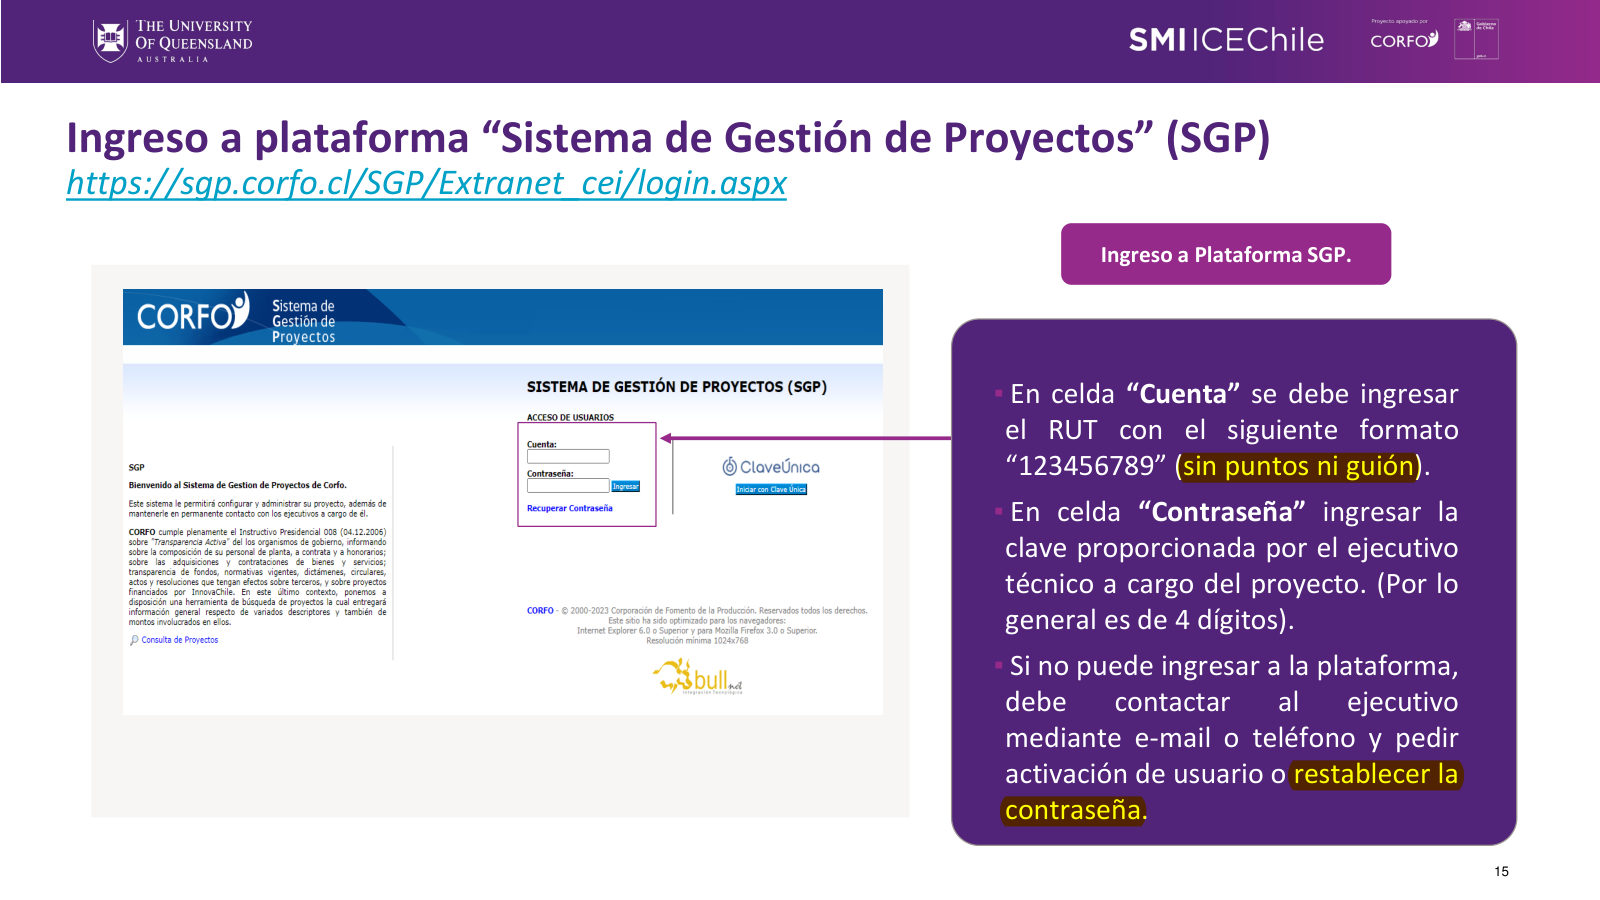
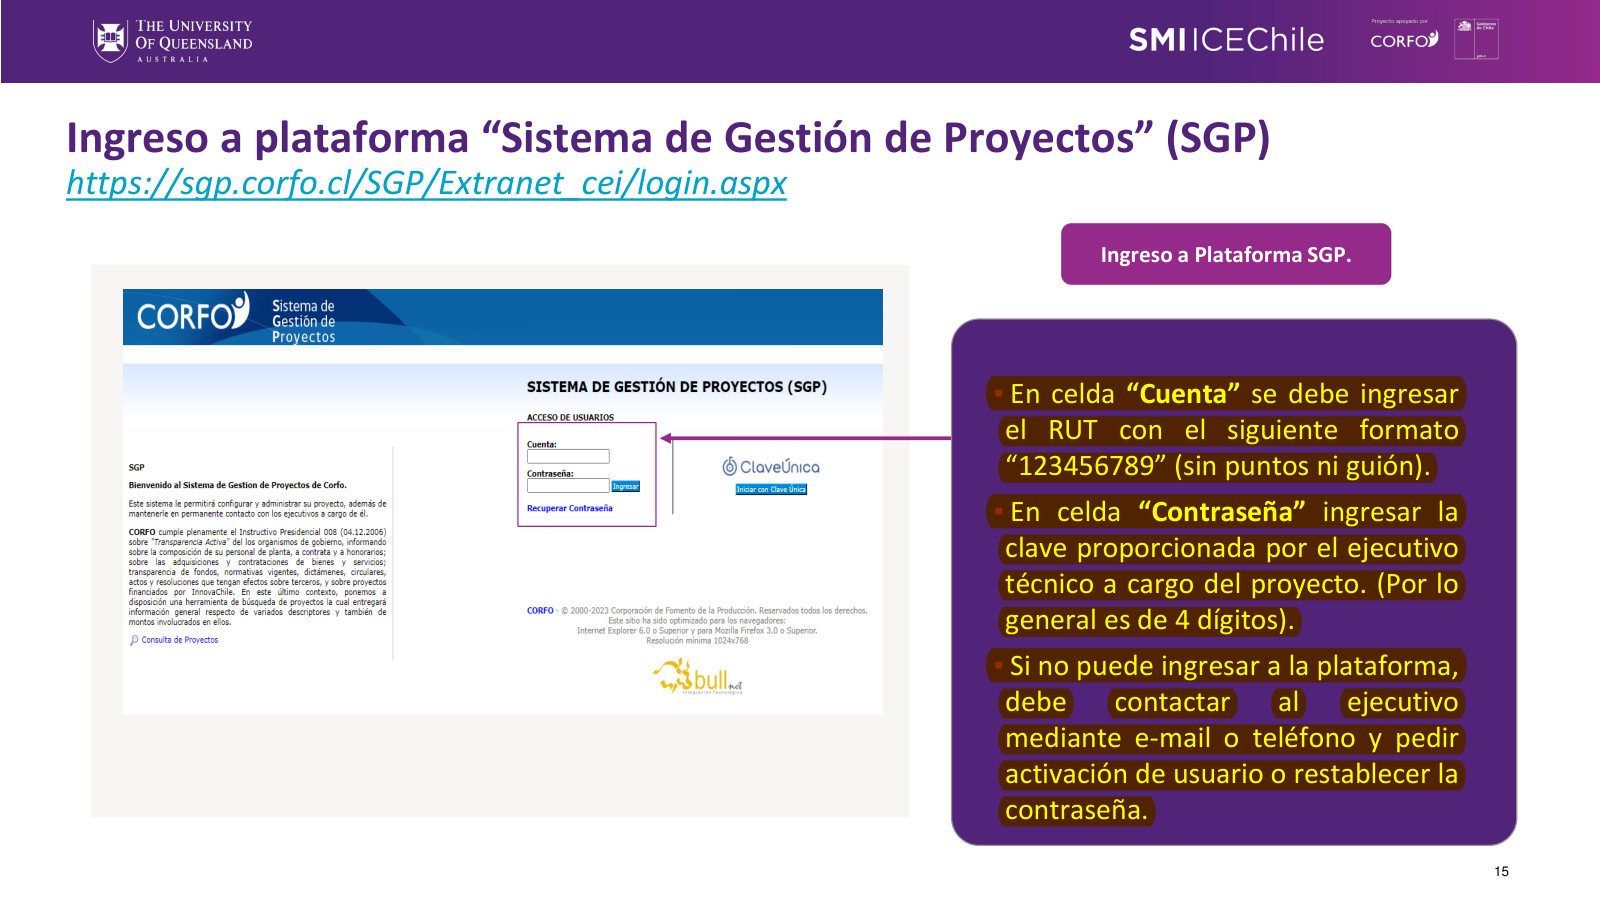
Extractos en amarillo rehechos: oraciones completas y recortes por párrafo (rf-v3-31)

Changed region(s): [[0.5938, 0.4044, 0.9375, 0.9022]]

diff --git a/sw.js b/sw.js
@@ -1,5 +1,5 @@
 /* Rinde Fácil: guarda los archivos de la app para que abra sin conexión. Los datos del usuario NO pasan por aquí. */
-var VERSION = 'rf-v3-30';
+var VERSION = 'rf-v3-31';
 var CORE = ['./', 'index.html', 'css/app.css', 'manifest.webmanifest', 'assets/icon.svg', 'vendor/parser.js', 'js/00-service-trust.js', 'js/01-util.js', 'js/02-store.js', 'js/03-crypto.js', 'js/04-vault.js', 'js/05-auth.js', 'js/10-data.js', 'js/11-tramites.js', 'js/12-needs.js', 'js/13-holidays.js', 'js/20-logic.js', 'js/26-receipt.js', 'js/27-search.js','js/21-export.js', 'js/22-export-pro.js', 'js/30-ui.js', 'js/31-forms.js', 'js/32-tools-plan.js', 'js/33-cloud.js', 'js/34-tools-gastos.js', 'js/36-drive.js', 'js/38-tools-needs.js', 'js/37-repo.js', 'js/35-flow.js', 'js/39-auth-ui.js', 'js/41-tools-share.js', 'js/42-tools-calendar.js', 'js/43-tools-f29.js', 'js/44-tools-historial.js', 'js/45-tools-obras.js', 'js/46-dashboard.js', 'js/47-expediente.js', 'js/40-views.js', 'js/50-search.js','js/60-app.js'];
 self.addEventListener('install', function (e) { e.waitUntil(caches.open(VERSION).then(function (c) { return c.addAll(CORE); }).then(function () { return self.skipWaiting(); })); });
 self.addEventListener('activate', function (e) { e.waitUntil(caches.keys().then(function (ks) { return Promise.all(ks.filter(function (k) { return k !== VERSION; }).map(function (k) { return caches.delete(k); })); }).then(function () { return self.clients.claim(); })); });

diff --git a/js/11-tramites.js b/js/11-tramites.js
@@ -124,7 +124,7 @@
       tools: ['consulta'], img: [['doc-004-79b28f1aad_p022.jpg', 'Manual, p. 22: interpretación']], src: ['Manual CORFO, sección XI (p. 22)'] }
   ];
 
-  /* hojas originales que tienen un recorte con el extracto marcado en amarillo (assets/docs/hl/, hecho con tools/make_highlights.py) */
+  /* hojas originales que tienen un recorte con el extracto marcado en amarillo (assets/docs/hl/, hecho con tools/hl_apply.py y tools/hl_spec.json) */
   var HL = ["doc-004-79b28f1aad_p007.jpg","doc-004-79b28f1aad_p008.jpg","doc-004-79b28f1aad_p009.jpg","doc-004-79b28f1aad_p010.jpg","doc-004-79b28f1aad_p015.jpg","doc-004-79b28f1aad_p019.jpg","doc-004-79b28f1aad_p020.jpg","doc-004-79b28f1aad_p021.jpg","doc-004-79b28f1aad_p022.jpg","doc-005-7690461ef7_p004.jpg","doc-005-7690461ef7_p005.jpg","doc-005-7690461ef7_p015.jpg","doc-005-7690461ef7_p016.jpg","doc-005-7690461ef7_p018.jpg","doc-005-7690461ef7_p020.jpg","doc-005-7690461ef7_p024.jpg"];
   var BY_ID = {}; T.forEach(function (t) { BY_ID[t.id] = t; });
 

diff --git a/tools/hl_apply.py b/tools/hl_apply.py
@@ -1,0 +1,157 @@
+"""Marca en amarillo, palabra por palabra, las ORACIONES completas que respaldan un trámite y recorta la hoja por párrafos enteros.
+
+Uso:
+  python tools/hl_apply.py --dump <prefijo> <página>        imprime la hoja por párrafos (para copiar las frases tal como están)
+  python tools/hl_apply.py --apply spec.json [--src carpeta] [--out carpeta]
+
+spec.json: [{"pdf": "doc-004-79b28f1aad", "page": 8, "sentences": ["oración completa 1", "oración completa 2"]}, ...]
+Cada oración se copia TAL CUAL del volcado (puede cruzar renglones). La herramienta avisa si una oración no se encuentra,
+si solo calzó en parte, o si el marcado ocupa demasiado de la hoja (señal de que se marcó de más)."""
+import json
+import os
+import re
+import sys
+
+try:
+    import pymupdf as fitz
+except ImportError:
+    import fitz
+
+HERE = os.path.dirname(os.path.dirname(os.path.abspath(__file__)))
+DEFAULT_SRC = r"D:\SMI\Fuentes\Desempeño social y gobernanza de recursos\Documentos iniciales"
+PDF = {
+    "doc-004-79b28f1aad": "Manual rendición de proyectos_Corfo.pdf",
+    "doc-005-7690461ef7": "Presentación Rendición financiera y técnica - Versión final.pdf",
+}
+
+
+def norm(t):
+    t = t.lower().replace("’", "'").replace("“", '"').replace("”", '"')
+    return re.sub(r"[^\w$%°]+", "", t)
+
+
+def page_words(page):
+    ws = page.get_text("words")  # x0, y0, x1, y1, text, block, line, word
+    ws.sort(key=lambda w: (w[5], w[6], w[7]))
+    return [{"r": fitz.Rect(w[:4]), "t": w[4], "n": norm(w[4]), "b": w[5], "l": w[6]} for w in ws if norm(w[4])]
+
+
+def find_span(words, sentence):
+    toks = [norm(x) for x in sentence.split() if norm(x)]
+    if not toks:
+        return None, "vacía"
+    ns = [w["n"] for w in words]
+    n = len(toks)
+    for i in range(0, len(ns) - n + 1):
+        if ns[i:i + n] == toks:
+            return (i, i + n), "exacta"
+    # parcial: el inicio y el final de la oración (4 palabras cada uno) dentro de una ventana razonable
+    k = min(4, n)
+    head, tail = toks[:k], toks[-k:]
+    starts = [i for i in range(len(ns) - k + 1) if ns[i:i + k] == head]
+    for s in starts:
+        for e in range(s + n - 6, min(len(ns) - k, s + n + 12) + 1):
+            if e >= s and ns[e:e + k] == tail:
+                return (s, e + k), "aproximada"
+    return None, "no encontrada"
+
+
+def dump(key, pno, src):
+    doc = fitz.open(os.path.join(src, PDF[key]))
+    page = doc[pno - 1]
+    blocks = page.get_text("blocks")
+    blocks.sort(key=lambda b: (round(b[1]), b[0]))
+    print("PÁGINA %d · %s · alto %.0f pt" % (pno, key, page.rect.height))
+    for i, b in enumerate(blocks):
+        txt = " ".join(b[4].split())
+        if txt:
+            print("[%d] (y=%.0f) %s" % (i, b[1], txt))
+
+
+def apply_spec(spec, src, out):
+    os.makedirs(out, exist_ok=True)
+    docs, reports = {}, []
+    for item in spec:
+        key, pno = item["pdf"], item["page"]
+        path = os.path.join(src, PDF[key])
+        if path not in docs:
+            docs[path] = fitz.open(path)
+        page = docs[path][pno - 1]
+        words = page_words(page)
+        used, rep = [], {"file": "%s_p%03d.jpg" % (key, pno), "sentences": [], "problems": []}
+        for s in item["sentences"]:
+            span, how = find_span(words, s)
+            rep["sentences"].append({"text": s[:70] + ("…" if len(s) > 70 else ""), "match": how})
+            if span is None:
+                rep["problems"].append("NO ENCONTRADA: " + s[:80])
+                continue
+            if how == "aproximada":
+                rep["problems"].append("calzó solo de forma aproximada (revisa que la oración esté copiada tal cual): " + s[:60])
+            used += words[span[0]:span[1]]
+        if not used:
+            rep["problems"].append("sin marcas: no se generó imagen")
+            reports.append(rep)
+            continue
+        # un rectángulo por renglón
+        lines = {}
+        for w in used:
+            lines.setdefault((w["b"], w["l"]), []).append(w["r"])
+        quads, area = [], 0.0
+        for rs in lines.values():
+            r = fitz.Rect(rs[0])
+            for x in rs[1:]:
+                r |= x
+            r = fitz.Rect(r.x0 - 1, r.y0, r.x1 + 1, r.y1)
+            quads.append(r.quad)
+            area += r.width * r.height
+        for q in quads:
+            page.add_highlight_annot(quads=[q]).update()
+        pr = page.rect
+        rep["marcado_pct_hoja"] = round(100 * area / (pr.width * pr.height), 1)
+        if rep["marcado_pct_hoja"] > 22:
+            rep["problems"].append("se marcó demasiado (%.0f %% de la hoja): deja solo las oraciones que respaldan el trámite" % rep["marcado_pct_hoja"])
+        # recorte: párrafos (bloques) completos que contienen lo marcado
+        blocks = [fitz.Rect(b[:4]) for b in page.get_text("blocks") if " ".join(b[4].split())]
+        blocks.sort(key=lambda r: r.y0)
+        used_blocks = {w["b"] for w in used}
+        raw = page.get_text("blocks")
+        marked = [fitz.Rect(b[:4]) for b in raw if b[5] in used_blocks]
+        y0 = min(r.y0 for r in marked)
+        y1 = max(r.y1 for r in marked)
+        if key == "doc-005-7690461ef7":
+            y0, y1 = pr.y0, pr.y1
+        else:
+            above = [r for r in blocks if r.y1 <= y0 + 1]
+            below = [r for r in blocks if r.y0 >= y1 - 1]
+            if above:
+                y0 = max(above, key=lambda r: r.y1).y0  # un párrafo de contexto antes
+            if below:
+                y1 = min(below, key=lambda r: r.y0).y1  # y uno después
+            y0, y1 = max(pr.y0, y0 - 8), min(pr.y1, y1 + 8)
+        rep["recorte_pct_hoja"] = round(100 * (y1 - y0) / pr.height)
+        clip = fitz.Rect(pr.x0, y0, pr.x1, y1)
+        page.get_pixmap(dpi=120, clip=clip).save(os.path.join(out, rep["file"]), jpg_quality=84)
+        reports.append(rep)
+    return reports
+
+
+def main():
+    a = sys.argv[1:]
+    src = DEFAULT_SRC
+    if "--src" in a:
+        src = a[a.index("--src") + 1]
+    out = os.path.join(HERE, "assets", "docs", "hl")
+    if "--out" in a:
+        out = a[a.index("--out") + 1]
+    if a and a[0] == "--dump":
+        dump(a[1], int(a[2]), src)
+    elif a and a[0] == "--apply":
+        with open(a[1], encoding="utf8") as f:
+            spec = json.load(f)
+        print(json.dumps(apply_spec(spec, src, out), ensure_ascii=False, indent=1))
+    else:
+        print(__doc__)
+
+
+if __name__ == "__main__":
+    main()
